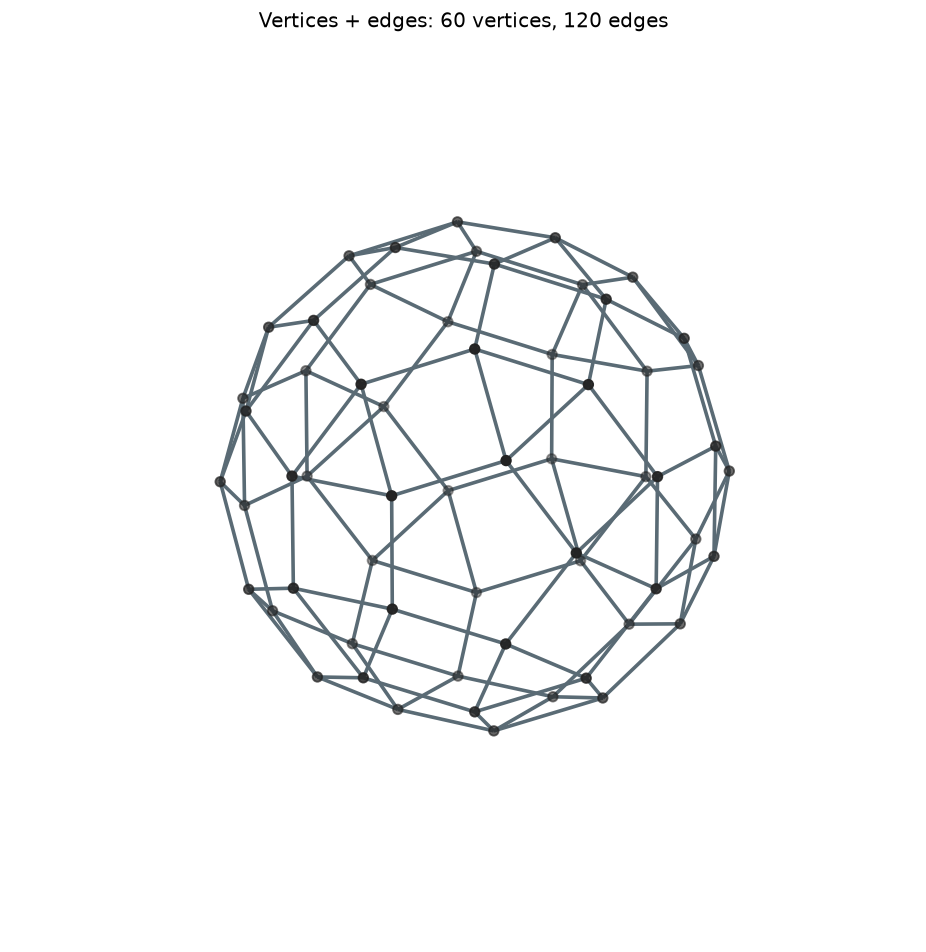
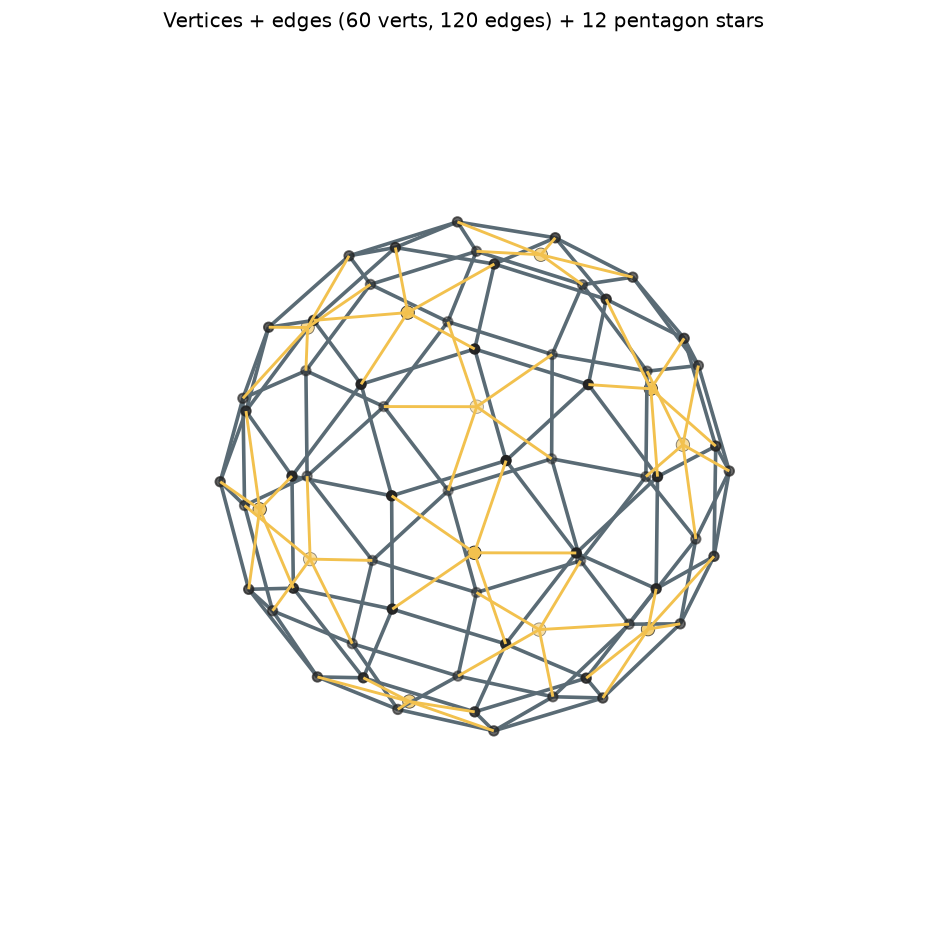
Add star hub at the centre of each pentagon
12 star hubs (one per pentagon), each with 5 spokes to the pentagon
corners. Added to geometry.pentagon_stars(), the frame mockup, and the
OpenSCAD model (SPOKE_R / STAR_R parameters).

diff --git a/make_scad.py b/make_scad.py
@@ -19,9 +19,17 @@ def fmt_vec(v):
 def main(diameter=200.0):
     V, F, E = geometry.build()           # unit circumsphere
     V = V * (diameter / 2.0)             # scale to requested diameter (mm)
+    stars = geometry.pentagon_stars(V, F)   # (center, [5 corner indices]) x12
 
     verts = ",\n    ".join(fmt_vec(v) for v in V)
     edges = ",\n    ".join("[%d, %d]" % (i, j) for i, j in E)
+    star_centers = ",\n    ".join(fmt_vec(c) for c, _ in stars)
+    # spokes as [star_index, vertex_index] pairs
+    spokes = ",\n    ".join(
+        "[%d, %d]" % (si, vi)
+        for si, (_, corners) in enumerate(stars)
+        for vi in corners
+    )
 
     scad = f"""// Ssymmank lamp frame -- rhombicosidodecahedron (vertices + edges)
 // 60 vertices, 120 edges, 62 faces (12 pentagons, 30 squares, 20 triangles).
@@ -30,6 +38,8 @@ def main(diameter=200.0):
 DIAMETER   = {diameter:.1f};   // overall lamp diameter (mm)
 STRUT_R    = 1.6;     // strut (edge) radius (mm)
 NODE_R     = 3.2;     // node (vertex) sphere radius (mm)
+SPOKE_R    = 1.2;     // pentagon star spoke radius (mm)
+STAR_R     = 3.6;     // pentagon star centre hub radius (mm)
 $fn        = 24;      // smoothness
 
 VERTS = [
@@ -40,18 +50,32 @@ EDGES = [
     {edges}
 ];
 
-module strut(a, b) {{
-    // rounded strut between two points via hull of two spheres
+// one star hub at the centre of each of the 12 pentagons
+STAR_CENTERS = [
+    {star_centers}
+];
+
+// [star_index, vertex_index] -- 5 spokes per star, 60 total
+SPOKES = [
+    {spokes}
+];
+
+module bar(a, b, r) {{
+    // rounded bar between two points via hull of two spheres
     hull() {{
-        translate(a) sphere(r = STRUT_R);
-        translate(b) sphere(r = STRUT_R);
+        translate(a) sphere(r = r);
+        translate(b) sphere(r = r);
     }}
 }}
 
 module frame() {{
     color("WhiteSmoke") {{
-        for (e = EDGES) strut(VERTS[e[0]], VERTS[e[1]]);
+        // pentagon / square / triangle edges
+        for (e = EDGES) bar(VERTS[e[0]], VERTS[e[1]], STRUT_R);
         for (v = VERTS) translate(v) sphere(r = NODE_R);
+        // star hub + 5 spokes inside each pentagon
+        for (s = SPOKES) bar(STAR_CENTERS[s[0]], VERTS[s[1]], SPOKE_R);
+        for (c = STAR_CENTERS) translate(c) sphere(r = STAR_R);
     }}
 }}
 

diff --git a/mockup.py b/mockup.py
@@ -40,14 +40,23 @@ def render_faces(V, F):
     print("saved mockup_faces.png")
 
 
-def render_frame(V, E):
+def render_frame(V, E, stars):
     fig = plt.figure(figsize=(9, 9))
     ax = fig.add_subplot(111, projection="3d")
     segs = [[V[i], V[j]] for i, j in E]
     ax.add_collection3d(Line3DCollection(segs, colors="#5a6b75", linewidths=2.0))
     ax.scatter(V[:, 0], V[:, 1], V[:, 2], s=28, c="#222", depthshade=True)
+
+    # star hub + 5 spokes at the centre of each pentagon
+    spokes = [[c, V[vi]] for c, corners in stars for vi in corners]
+    ax.add_collection3d(Line3DCollection(spokes, colors=COLORS[5], linewidths=1.6))
+    C = np.array([c for c, _ in stars])
+    ax.scatter(C[:, 0], C[:, 1], C[:, 2], s=55, c=COLORS[5], edgecolor="#222",
+               linewidth=0.5, depthshade=True)
+
     _style(ax)
-    ax.set_title(f"Vertices + edges: {len(V)} vertices, {len(E)} edges", fontsize=11)
+    ax.set_title(f"Vertices + edges ({len(V)} verts, {len(E)} edges) "
+                 f"+ {len(stars)} pentagon stars", fontsize=11)
     fig.savefig("mockup_frame.png", dpi=130, bbox_inches="tight")
     plt.close(fig)
     print("saved mockup_frame.png")
@@ -56,7 +65,7 @@ def render_frame(V, E):
 def main():
     V, F, E = geometry.build()
     render_faces(V, F)
-    render_frame(V, E)
+    render_frame(V, E, geometry.pentagon_stars(V, F))
 
 
 if __name__ == "__main__":

diff --git a/geometry.py b/geometry.py
@@ -79,6 +79,18 @@ def edges(face_list):
     return sorted(e)
 
 
+def pentagon_stars(V, face_list):
+    """For each pentagon face return (center_point, [5 corner indices]).
+
+    The center is the centroid of the pentagon's 5 vertices -> a star hub
+    with 5 spokes radiating to the corners (as in the lamp's interior)."""
+    out = []
+    for f in face_list:
+        if len(f) == 5:
+            out.append((V[f].mean(axis=0), list(f)))
+    return out
+
+
 def build(normalize=True):
     """Return (V, faces, edges). If normalize, scale to a unit circumsphere."""
     V = vertices()
